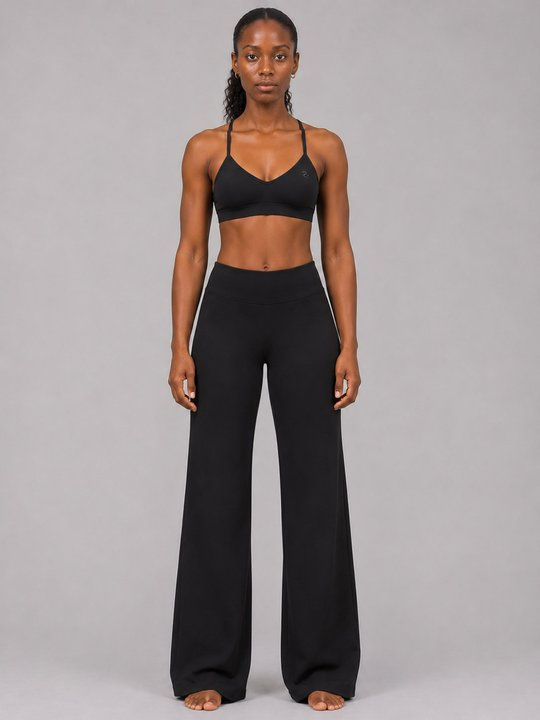
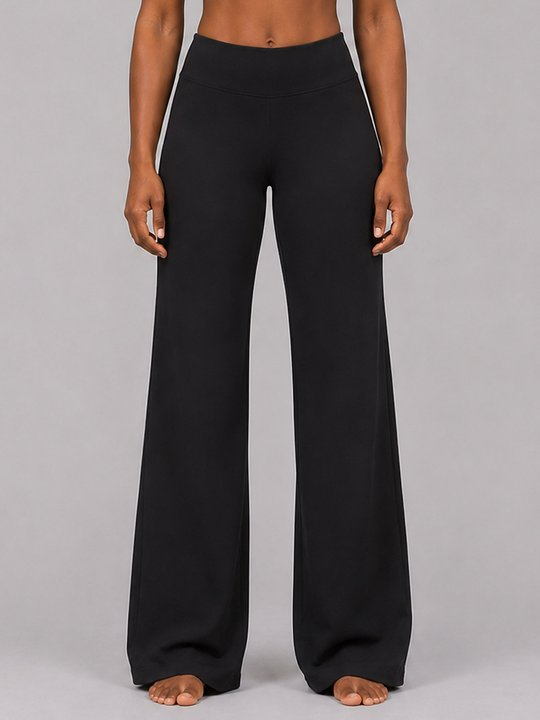
Flared Leggings: waist-down crop is the cover, full front moves to second

diff --git a/product.html b/product.html
@@ -372,7 +372,7 @@
 <script>
 const PRODUCTS={
   'running-leggings-w':{name:'Performance Leggings',gender:"Women's",price:'KES 5,550',priceVal:5550,image:'images/running-leggings-w.jpg',images:['images/running-leggings-w.jpg','images/running-leggings-w-side.jpg','images/running-leggings-w-full-back.jpg','images/running-leggings-w-plus-front-angle.jpg','images/running-leggings-w-plus-back.jpg'],sizes:['S','M','L','XL','XXL'],desc:"Engineered for road and trail. A contoured waistband defines the line without compressing. A pattern-cut panel lifts the silhouette at the top of the glute, while graduated compression holds the line without flattening shape. Four-way stretch fabric. Flatlock seams.",details:['Contoured waistband — defines without compressing','Pattern-cut lift at the top of the glute','Graduated compression through thigh and core','Four-way stretch performance fabric','No front seam','Flatlock seam construction','Fabric: 75% Polyamide, 25% Elastane']},
-  'flared-leggings-w':{name:'Flared Leggings',gender:"Women's",price:'KES 5,600',priceVal:5600,image:'images/flared-leggings-w.jpg',images:['images/flared-leggings-w.jpg','images/flared-leggings-w-back.jpg','images/flared-leggings-w-side.jpg','images/flared-leggings-w-waistband.jpg','images/flared-leggings-w-back-angle.jpg'],sizes:['S','M','L','XL','XXL'],tallSizes:['S (Tall)','M (Tall)','L (Tall)','XL (Tall)','XXL (Tall)'],desc:"Studio-ready with a relaxed straight-leg silhouette — loose from the waistband down through the leg. A high-rise contoured waistband defines the waistline and stays put through full range of motion. A pattern-cut panel lifts the silhouette at the top of the glute, while graduated compression holds the line without flattening shape. Buttery-soft four-way stretch fabric. Suited to yoga, pilates, barre and everyday wear. Also available in Tall lengths.",details:['High-rise contoured waistband — defines without compressing','Pattern-cut lift at the top of the glute','Graduated compression through thigh and core','Buttery-soft four-way stretch fabric','No front seam','Relaxed straight-leg cut — loose from the waistband through the leg','Regular (34" inseam) — up to 5\'8" / 173cm · Tall (37" inseam) — 5\'9" / 175cm and above','Fabric: 75% Polyamide, 25% Elastane']},
+  'flared-leggings-w':{name:'Flared Leggings',gender:"Women's",price:'KES 5,600',priceVal:5600,image:'images/flared-leggings-w.jpg',images:['images/flared-leggings-w.jpg','images/flared-leggings-w-front.jpg','images/flared-leggings-w-back.jpg','images/flared-leggings-w-side.jpg','images/flared-leggings-w-waistband.jpg','images/flared-leggings-w-back-angle.jpg'],sizes:['S','M','L','XL','XXL'],tallSizes:['S (Tall)','M (Tall)','L (Tall)','XL (Tall)','XXL (Tall)'],desc:"Studio-ready with a relaxed straight-leg silhouette — loose from the waistband down through the leg. A high-rise contoured waistband defines the waistline and stays put through full range of motion. A pattern-cut panel lifts the silhouette at the top of the glute, while graduated compression holds the line without flattening shape. Buttery-soft four-way stretch fabric. Suited to yoga, pilates, barre and everyday wear. Also available in Tall lengths.",details:['High-rise contoured waistband — defines without compressing','Pattern-cut lift at the top of the glute','Graduated compression through thigh and core','Buttery-soft four-way stretch fabric','No front seam','Relaxed straight-leg cut — loose from the waistband through the leg','Regular (34" inseam) — up to 5\'8" / 173cm · Tall (37" inseam) — 5\'9" / 175cm and above','Fabric: 75% Polyamide, 25% Elastane']},
   'high-impact-bra':{name:'High Impact Sports Bra',gender:"Women's",price:'KES 4,900',priceVal:4900,image:'images/high-impact-bra-side.jpg',images:['images/high-impact-bra-side.jpg','images/high-impact-bra-back.jpg','images/high-impact-bra-front.jpg','images/high-impact-bra-closeup.jpg','images/running-leggings-w-plus-front-angle.jpg','images/running-leggings-w-plus-back.jpg'],sizes:['S','M','L','XL','XXL'],desc:"Maximum support for running, HIIT, and high-intensity training. Wide underband and reinforced straps keep everything locked in place. Moisture-wicking inner lining and built-in moulded padding.",details:['Maximum support rating','Wide reinforced underband','Adjustable underband strap','Crossover back straps','Built-in moulded padding','Moisture-wicking inner lining','Fabric: Body Fabric: 75% Polyamide, 25% Elastane / Inner Fabric: 90% Polyester, 10% Elastane Jacquard Tricot / Mesh: 88% Polyamide, 12% Elastane Mesh']},
   'low-impact-bra':{name:'Low Impact Sports Bra',gender:"Women's",price:'KES 4,450',priceVal:4450,image:'images/low-impact-bra.jpg',images:['images/low-impact-bra.jpg','images/low-impact-bra-back.jpg','images/low-impact-bra-side.jpg','images/low-impact-bra-front.jpg'],sizes:['S','M','L','XL','XXL'],desc:"Lightweight and breathable for yoga, pilates, stretching, and low-intensity sessions. Scoop neck with a clean racerback silhouette. Removable padding, soft-touch fabric.",details:['Light support rating','Racerback silhouette','Scoop neckline','Removable padding','Soft-touch four-way stretch fabric','Fabric: Body Fabric: 82% Polyamide, 18% Elastane / Mesh: 88% Polyamide, 12% Elastane Mesh']},
   'jacket-w':{name:"Women's Jacket",gender:"Women's",price:'KES 7,450',priceVal:7450,image:'images/jacket-w-front-2.jpg',images:['images/jacket-w-front-2.jpg','images/jacket-w-three-quarter-2.jpg','images/jacket-w-side-2.jpg','images/jacket-w-back-2.jpg'],sizes:['S','M','L','XL','XXL'],desc:"A versatile training jacket built for warm-ups, cool-downs, and everything in between. Two side pockets and a straight fit.",details:['Full-length zip front','Two side zip pockets','Straight fit','Fabric: 100% Polyester']},
